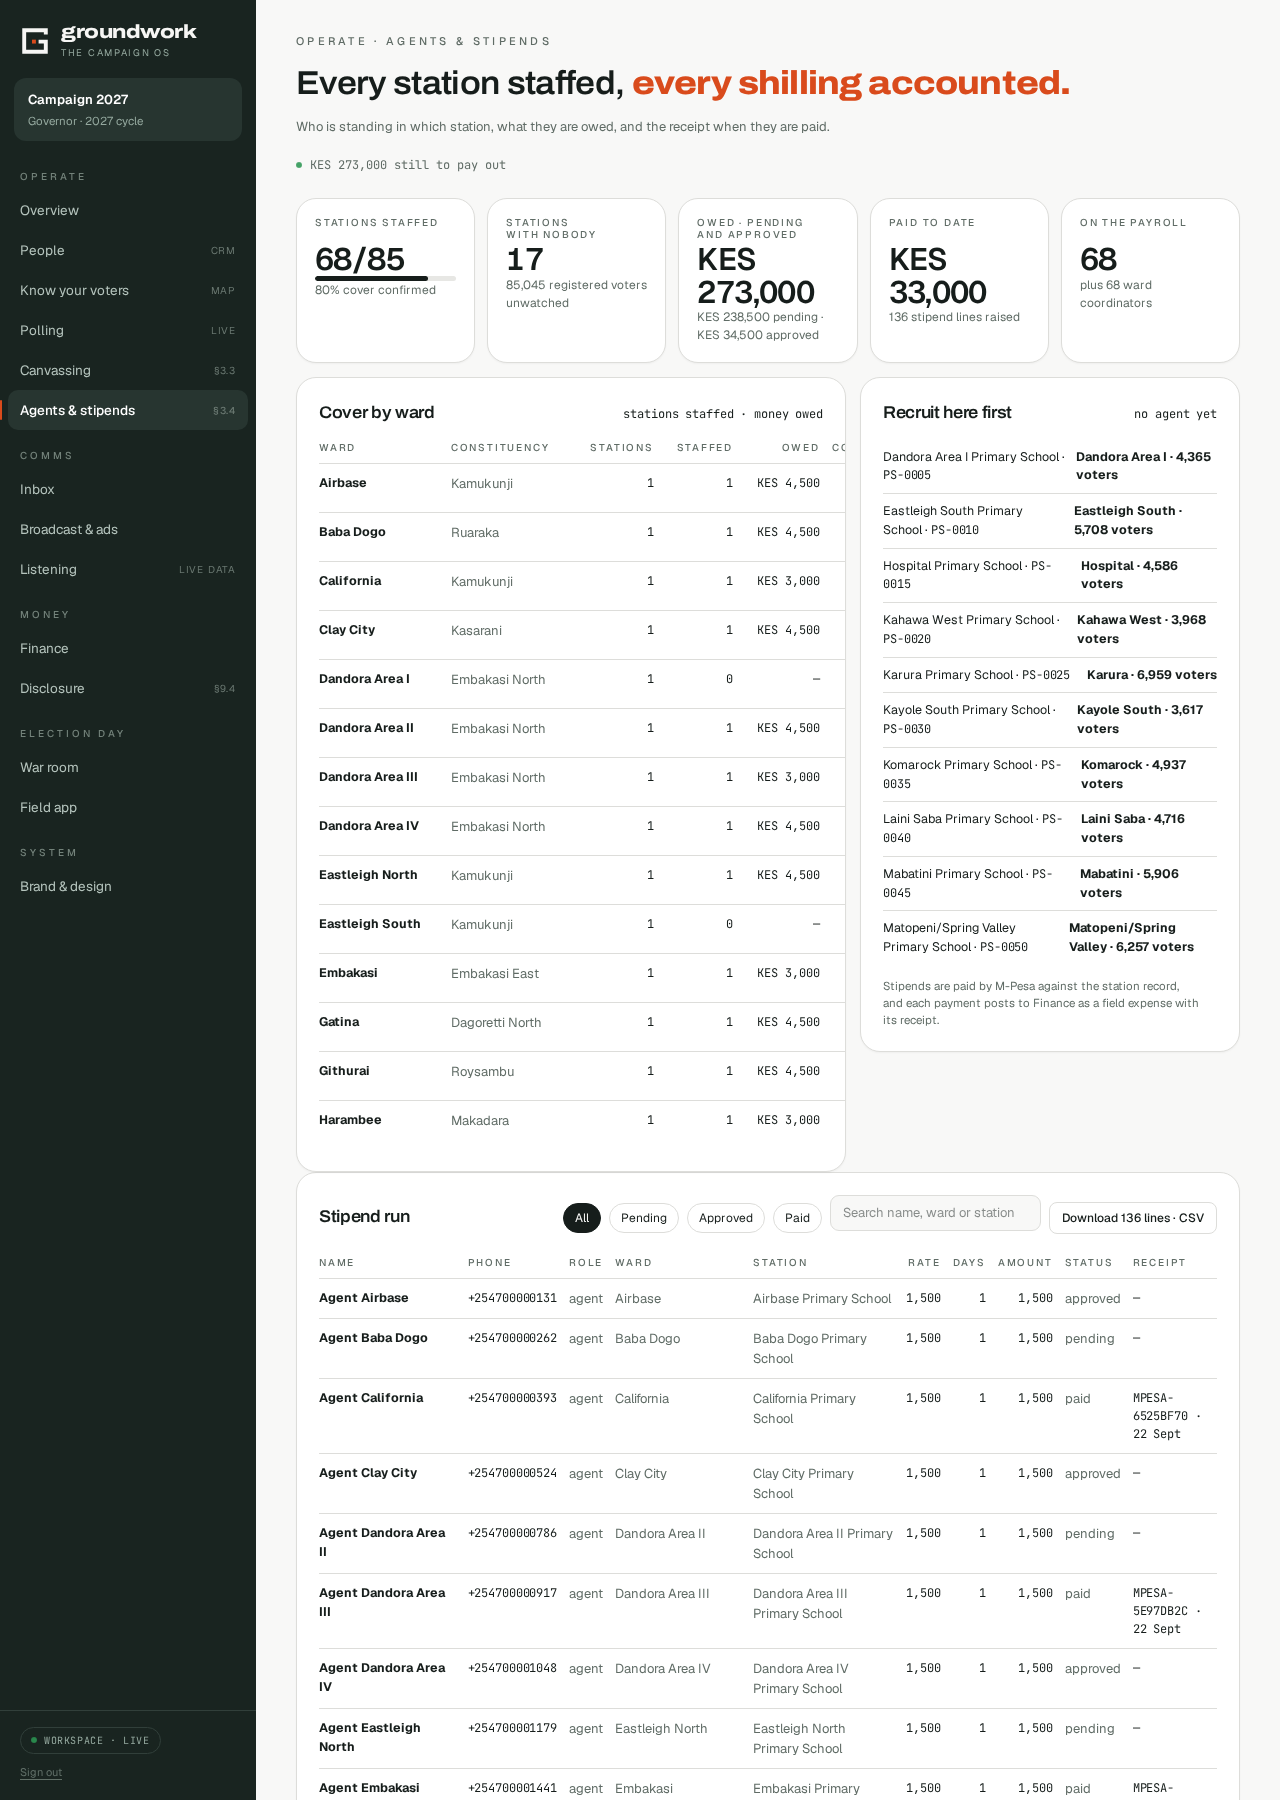
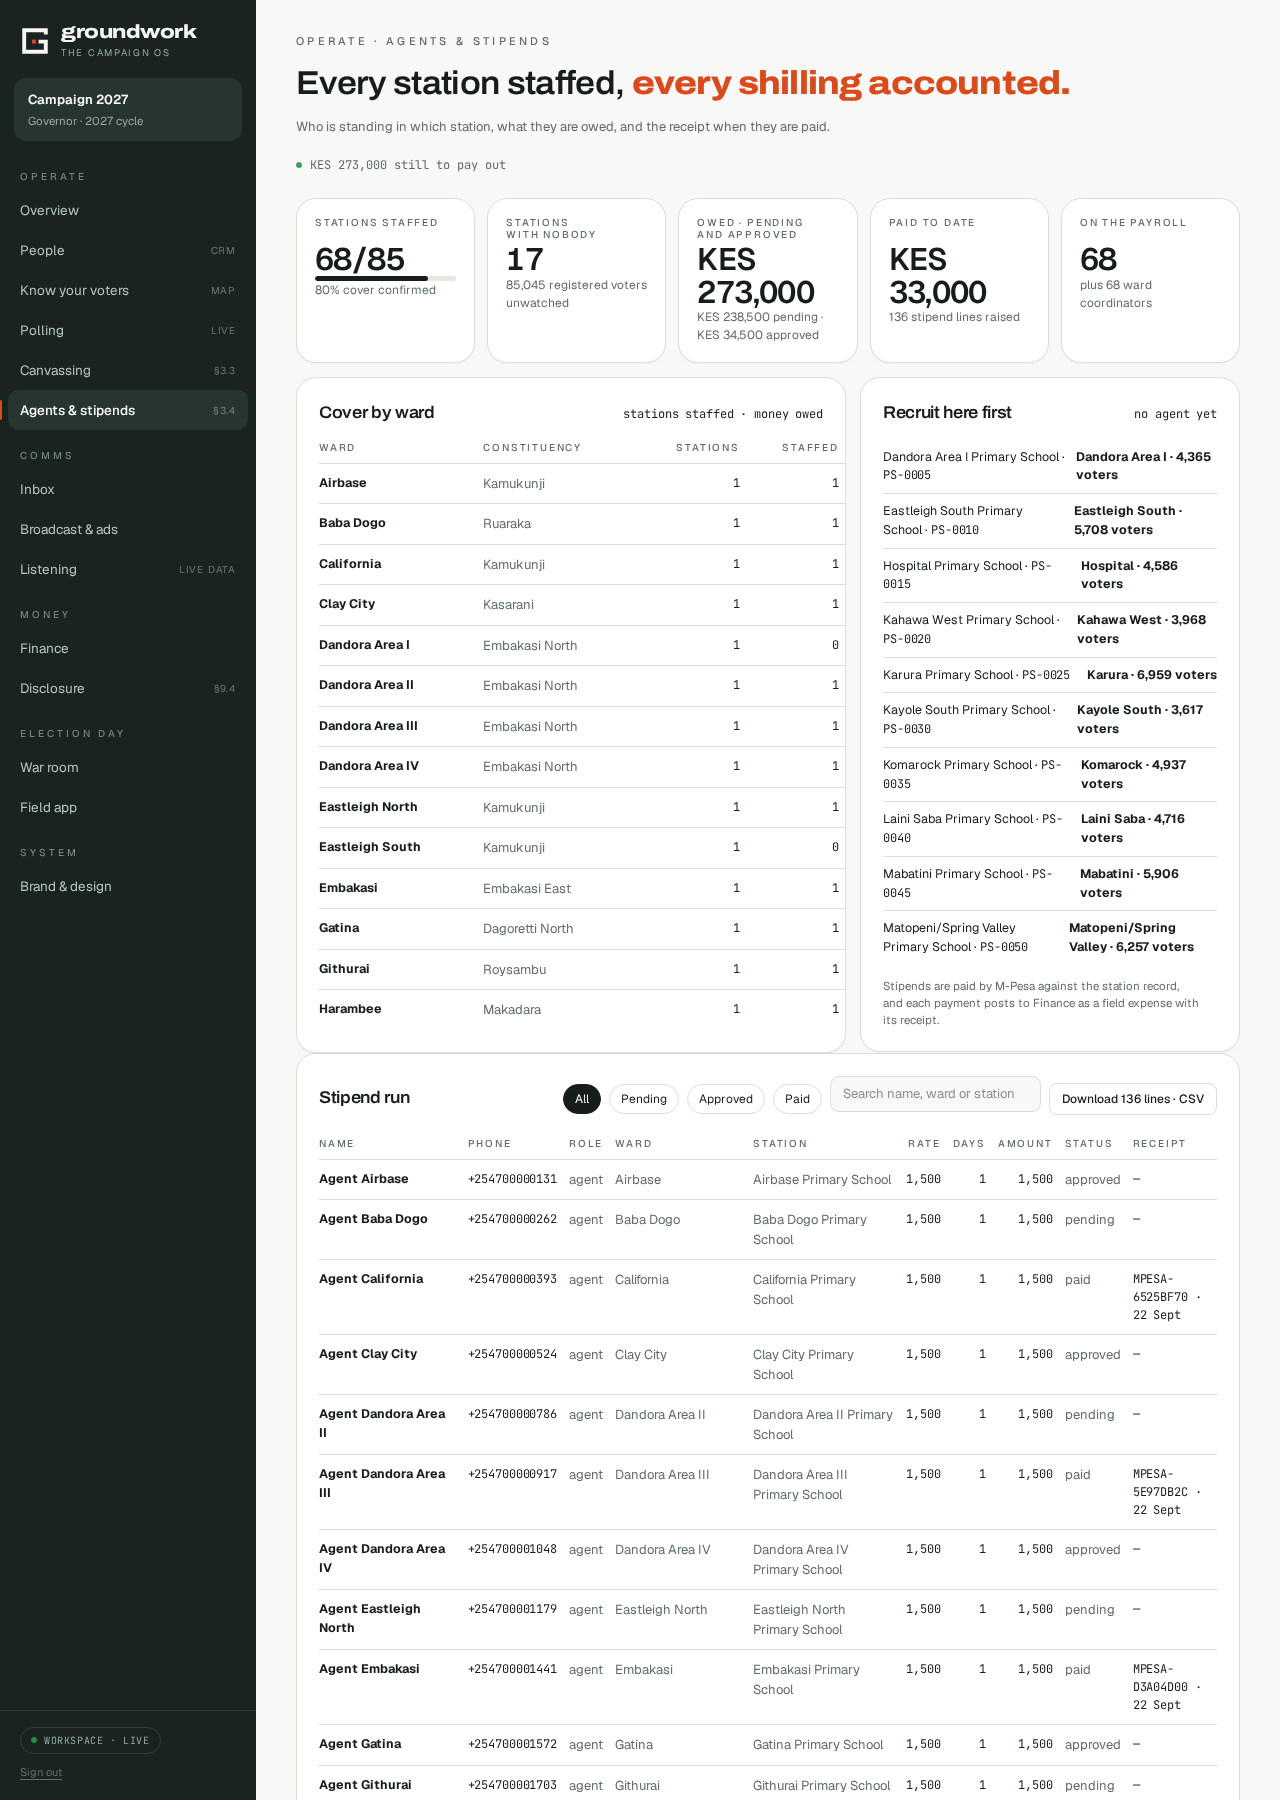
Changes

diff --git a/src/routes/_authenticated/agents.tsx b/src/routes/_authenticated/agents.tsx
@@ -172,7 +172,6 @@ function Agents() {
                   <th style={{ textAlign: "right" }}>Stations</th>
                   <th style={{ textAlign: "right" }}>Staffed</th>
                   <th style={{ textAlign: "right" }}>Owed</th>
-                  <th>Cover</th>
                 </tr>
               </thead>
               <tbody>
@@ -185,20 +184,11 @@ function Agents() {
                     <td className="num">{nf.format(w.stations)}</td>
                     <td className="num">{nf.format(w.staffed)}</td>
                     <td className="num">{w.owed ? money(w.owed) : "—"}</td>
-                    <td style={{ minWidth: 110 }}>
-                      <span className="cov-bar">
-                        <i
-                          style={{
-                            width: `${w.stations ? (w.staffed / w.stations) * 100 : 0}%`,
-                          }}
-                        />
-                      </span>
-                    </td>
                   </tr>
                 ))}
                 {(data?.wards ?? []).length === 0 && (
                   <tr>
-                    <td colSpan={6} className="meta">
+                    <td colSpan={5} className="meta">
                       Loading cover…
                     </td>
                   </tr>
